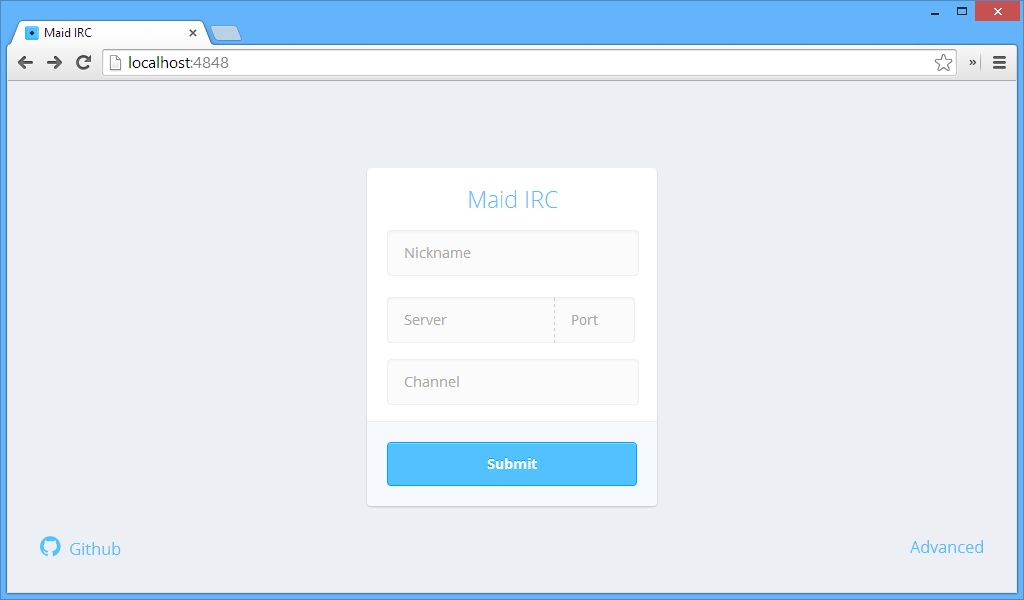
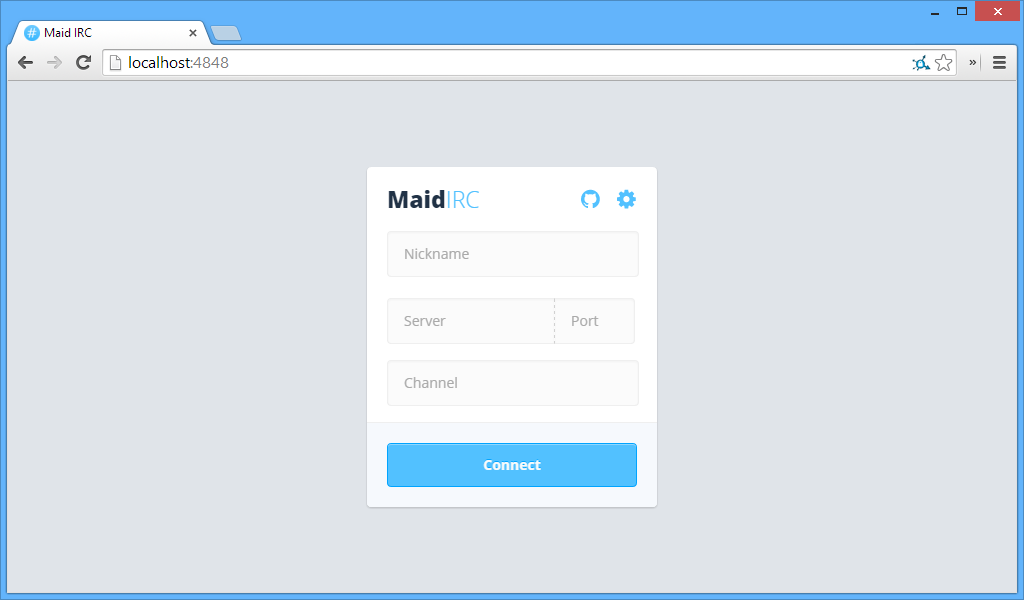
Deleted old files, updated normalize, updated login screenshot, remove jade caching

diff --git a/public/css/normalize.css b/public/css/normalize.css
@@ -1,1 +1,1 @@
-/*! normalize.css v3.0.0 | MIT License | git.io/normalize */html{font-family:sans-serif;-ms-text-size-adjust:100%;-webkit-text-size-adjust:100%}body{margin:0}article,aside,details,figcaption,figure,footer,header,hgroup,main,nav,section,summary{display:block}audio,canvas,progress,video{display:inline-block;vertical-align:baseline}audio:not([controls]){display:none;height:0}[hidden],template{display:none}a{background:0 0}a:active,a:hover{outline:0}abbr[title]{border-bottom:1px dotted}b,strong{font-weight:700}dfn{font-style:italic}h1{font-size:2em;margin:.67em 0}mark{background:#ff0;color:#000}small{font-size:80%}sub,sup{font-size:75%;line-height:0;position:relative;vertical-align:baseline}sup{top:-.5em}sub{bottom:-.25em}img{border:0}svg:not(:root){overflow:hidden}figure{margin:1em 40px}hr{-moz-box-sizing:content-box;box-sizing:content-box;height:0}pre{overflow:auto}code,kbd,pre,samp{font-family:monospace,monospace;font-size:1em}button,input,optgroup,select,textarea{color:inherit;font:inherit;margin:0}button{overflow:visible}button,select{text-transform:none}button,html input[type=button],input[type=reset],input[type=submit]{-webkit-appearance:button;cursor:pointer}button[disabled],html input[disabled]{cursor:default}button::-moz-focus-inner,input::-moz-focus-inner{border:0;padding:0}input{line-height:normal}input[type=checkbox],input[type=radio]{box-sizing:border-box;padding:0}input[type=number]::-webkit-inner-spin-button,input[type=number]::-webkit-outer-spin-button{height:auto}input[type=search]{-webkit-appearance:textfield;-moz-box-sizing:content-box;-webkit-box-sizing:content-box;box-sizing:content-box}input[type=search]::-webkit-search-cancel-button,input[type=search]::-webkit-search-decoration{-webkit-appearance:none}fieldset{border:1px solid silver;margin:0 2px;padding:.35em .625em .75em}legend{border:0;padding:0}textarea{overflow:auto}optgroup{font-weight:700}table{border-collapse:collapse;border-spacing:0}td,th{padding:0}
+/*! normalize.css v3.0.1 | MIT License | git.io/normalize */html{font-family:sans-serif;-ms-text-size-adjust:100%;-webkit-text-size-adjust:100%}body{margin:0}article,aside,details,figcaption,figure,footer,header,hgroup,main,nav,section,summary{display:block}audio,canvas,progress,video{display:inline-block;vertical-align:baseline}audio:not([controls]){display:none;height:0}[hidden],template{display:none}a{background:transparent}a:active,a:hover{outline:0}abbr[title]{border-bottom:1px dotted}b,strong{font-weight:bold}dfn{font-style:italic}h1{font-size:2em;margin:.67em 0}mark{background:#ff0;color:#000}small{font-size:80%}sub,sup{font-size:75%;line-height:0;position:relative;vertical-align:baseline}sup{top:-0.5em}sub{bottom:-0.25em}img{border:0}svg:not(:root){overflow:hidden}figure{margin:1em 40px}hr{-moz-box-sizing:content-box;box-sizing:content-box;height:0}pre{overflow:auto}code,kbd,pre,samp{font-family:monospace,monospace;font-size:1em}button,input,optgroup,select,textarea{color:inherit;font:inherit;margin:0}button{overflow:visible}button,select{text-transform:none}button,html input[type="button"],input[type="reset"],input[type="submit"]{-webkit-appearance:button;cursor:pointer}button[disabled],html input[disabled]{cursor:default}button::-moz-focus-inner,input::-moz-focus-inner{border:0;padding:0}input{line-height:normal}input[type="checkbox"],input[type="radio"]{box-sizing:border-box;padding:0}input[type="number"]::-webkit-inner-spin-button,input[type="number"]::-webkit-outer-spin-button{height:auto}input[type="search"]{-webkit-appearance:textfield;-moz-box-sizing:content-box;-webkit-box-sizing:content-box;box-sizing:content-box}input[type="search"]::-webkit-search-cancel-button,input[type="search"]::-webkit-search-decoration{-webkit-appearance:none}fieldset{border:1px solid #c0c0c0;margin:0 2px;padding:.35em .625em .75em}legend{border:0;padding:0}textarea{overflow:auto}optgroup{font-weight:bold}table{border-collapse:collapse;border-spacing:0}td,th{padding:0}

diff --git a/lib/maidIrc.js b/lib/maidIrc.js
@@ -12,12 +12,11 @@ var maidIrc = function (io) {
 			thisClient,
 			connectInfo = false;
 
-		console.log(socket.handshake.address);
+		console.log(socket.handshake);
 
-		console.log("Client connected from: " + socket.handshake.address.address + ":" + socket.handshake.address.port);
+		console.log("Client connected from: " + socket.handshake.address + ":" + socket.handshake.address.port);
 
 		socket.on("connectInfo", function (data) {
-			console.log("Connect Infomation: " + JSON.stringify(data));
 			if (typeof data == undefined) {
 				socket.disconnect('unauthorized');
 				return;

diff --git a/maid.js b/maid.js
@@ -63,7 +63,6 @@ if (env !== "production") {
 app.use(lessMiddleware(__dirname + "/public", {
 	compress: true,
 	optimization: 2,
-	cacheFile: __dirname + "/cache",
 	force: forceCompile
 }));
 
